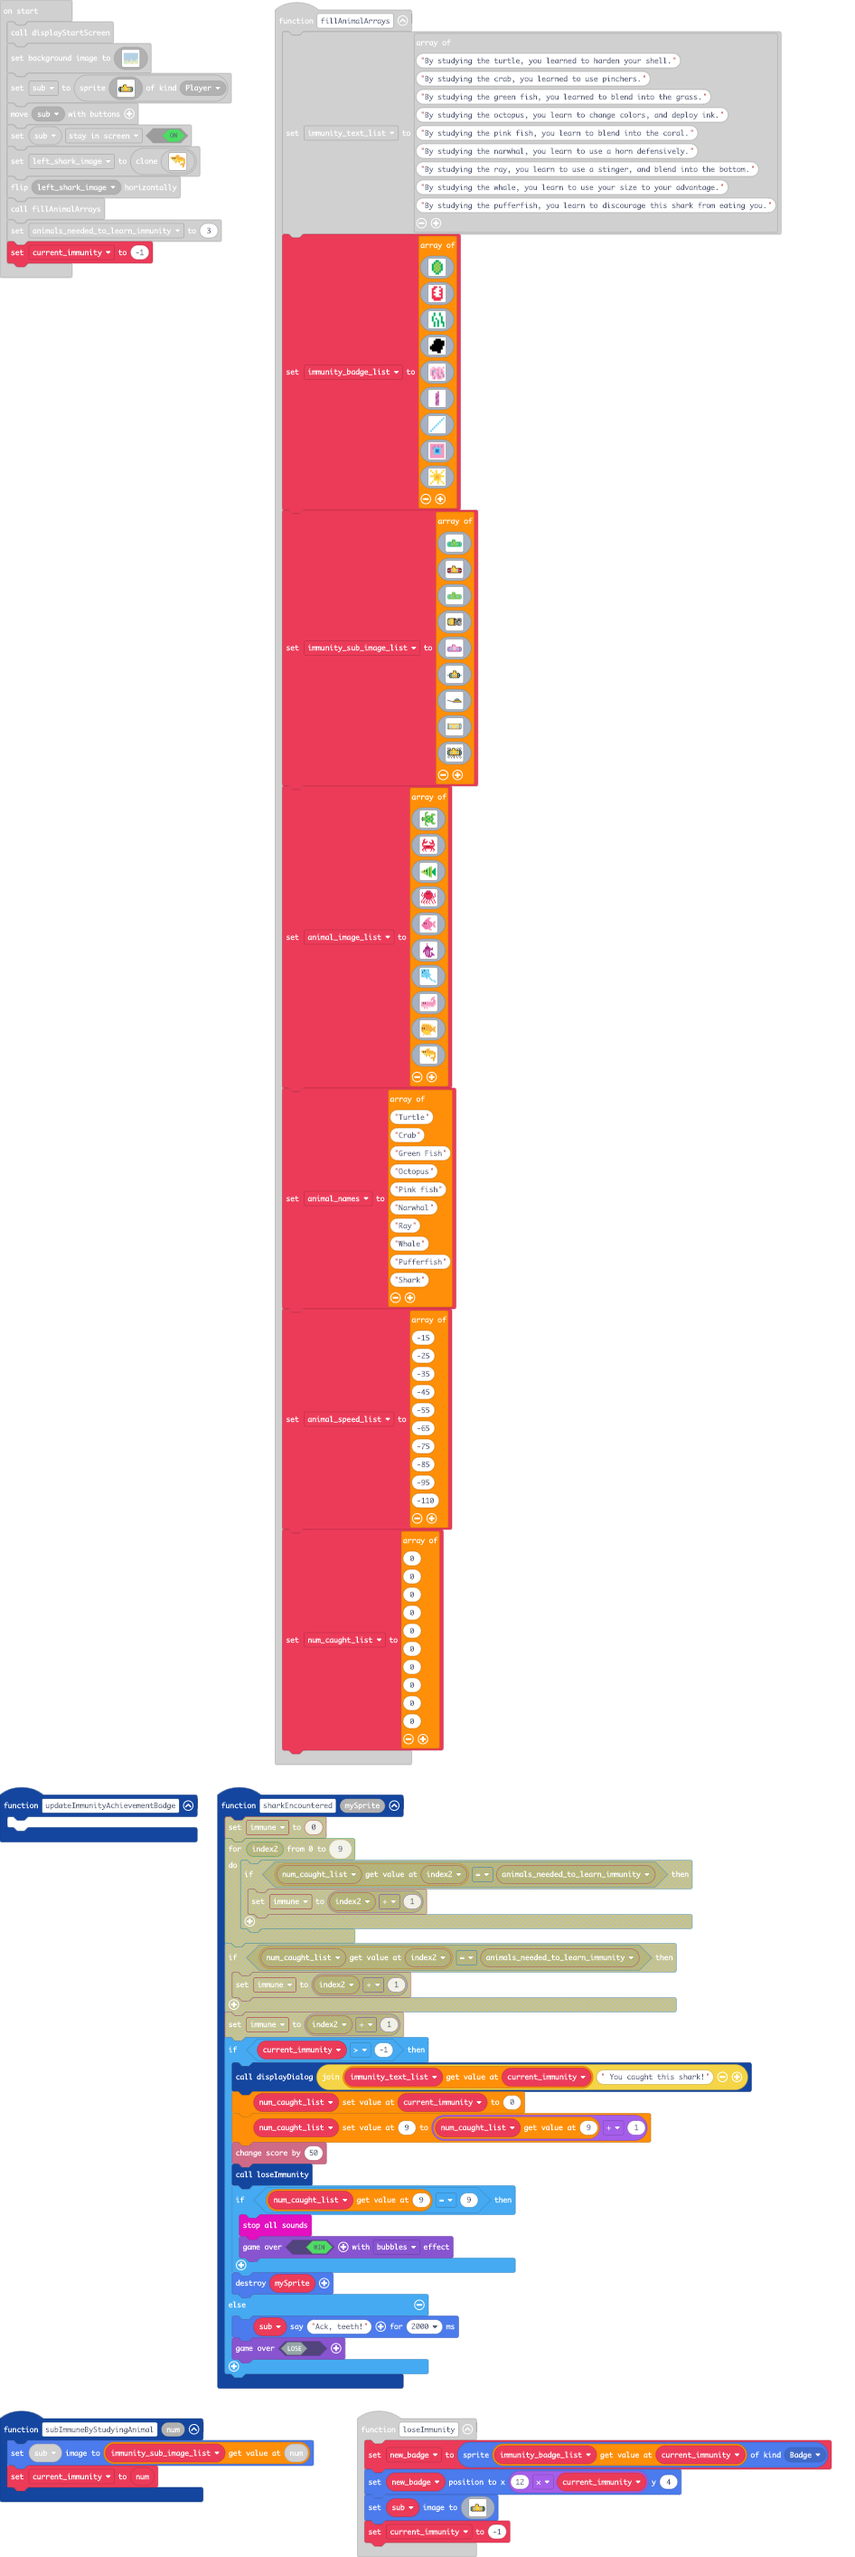
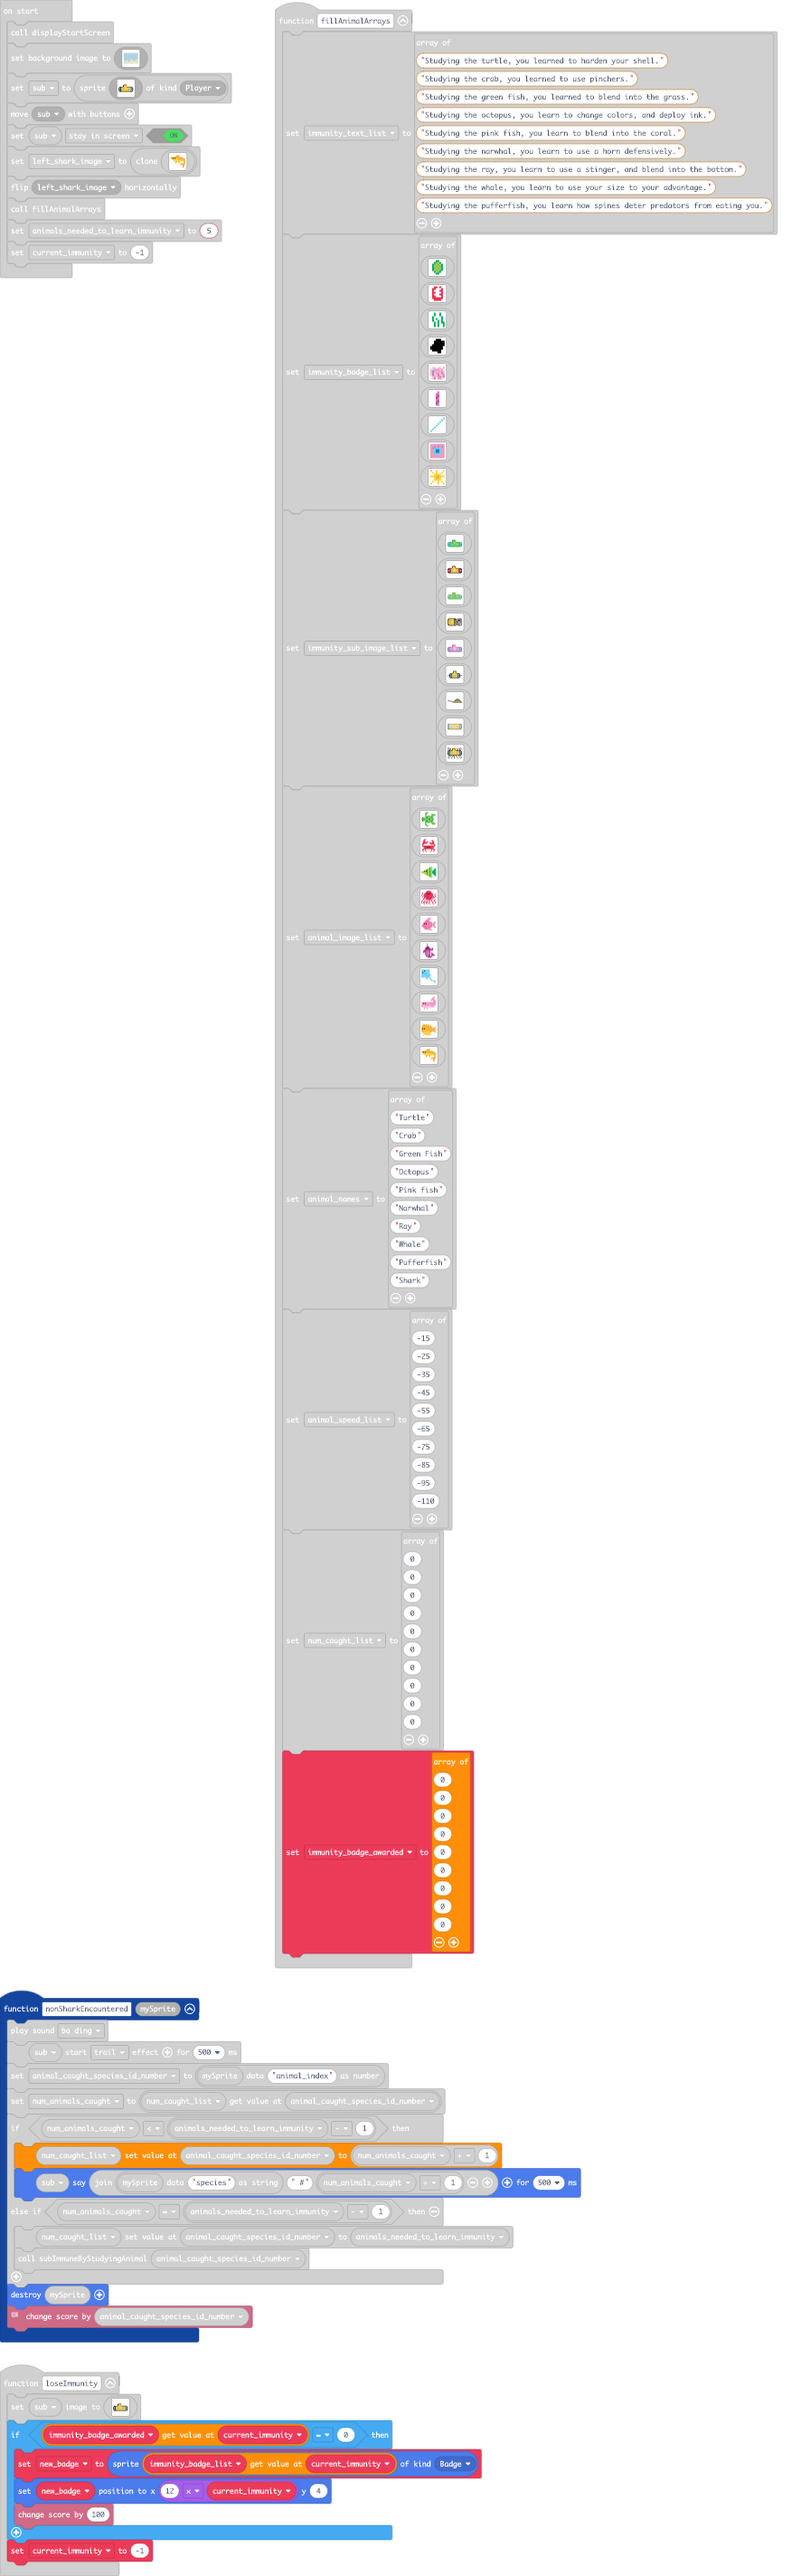
Immunity badges awarded when immunity used to catch shark.

diff --git a/main.ts b/main.ts
@@ -88,8 +88,6 @@ sprites.onOverlap(SpriteKind.Player, SpriteKind.Projectile, function (sprite, ot
     }
 })
 function loseImmunity () {
-    new_badge = sprites.create(immunity_badge_list[current_immunity], SpriteKind.Badge)
-    new_badge.setPosition(12 * current_immunity, 4)
     sub.setImage(img`
         . . . . . . . . . . . f f f f f f . . . . . . . . . . . . . . . 
         . . . . . . . . . . f d e d e e e f . . . . . . . . . . . . . . 
@@ -108,6 +106,11 @@ function loseImmunity () {
         . f f b f d d d d d d d d d d d d d d d d d d d d d d f b f f . 
         . . f f f f f f f f f f f f f f f f f f f f f f f f f f f f . . 
         `)
+    if (immunity_badge_awarded[current_immunity] == 0) {
+        new_badge = sprites.create(immunity_badge_list[current_immunity], SpriteKind.Badge)
+        new_badge.setPosition(12 * current_immunity, 4)
+        info.changeScoreBy(100)
+    }
     current_immunity = -1
 }
 function nonSharkEncountered (mySprite: Sprite) {
@@ -117,26 +120,26 @@ function nonSharkEncountered (mySprite: Sprite) {
     num_animals_caught = num_caught_list[animal_caught_species_id_number]
     if (num_animals_caught < animals_needed_to_learn_immunity - 1) {
         num_caught_list[animal_caught_species_id_number] = num_animals_caught + 1
+        sub.say("" + sprites.readDataString(mySprite, "species") + " #" + (num_animals_caught + 1), 500)
     } else if (num_animals_caught == animals_needed_to_learn_immunity - 1) {
         num_caught_list[animal_caught_species_id_number] = animals_needed_to_learn_immunity
         subImmuneByStudyingAnimal(animal_caught_species_id_number)
     }
     mySprite.destroy()
-    sub.say("" + sprites.readDataString(mySprite, "species") + " #" + (num_animals_caught + 1), 500)
     // Faster animals are worth more points.
     info.changeScoreBy(animal_caught_species_id_number)
 }
 function fillAnimalArrays () {
     immunity_text_list = [
-    "By studying the turtle, you learned to harden your shell.",
-    "By studying the crab, you learned to use pinchers.",
-    "By studying the green fish, you learned to blend into the grass.",
-    "By studying the octopus, you learn to change colors, and deploy ink.",
-    "By studying the pink fish, you learn to blend into the coral.",
-    "By studying the narwhal, you learn to use a horn defensively.",
-    "By studying the ray, you learn to use a stinger, and blend into the bottom.",
-    "By studying the whale, you learn to use your size to your advantage.",
-    "By studying the pufferfish, you learn to discourage this shark from eating you."
+    "Studying the turtle, you learned to harden your shell.",
+    "Studying the crab, you learned to use pinchers.",
+    "Studying the green fish, you learned to blend into the grass.",
+    "Studying the octopus, you learn to change colors, and deploy ink.",
+    "Studying the pink fish, you learn to blend into the coral.",
+    "Studying the narwhal, you learn to use a horn defensively.",
+    "Studying the ray, you learn to use a stinger, and blend into the bottom.",
+    "Studying the whale, you learn to use your size to your advantage.",
+    "Studying the pufferfish, you learn how spines deter predators from eating you."
     ]
     immunity_badge_list = [
     img`
@@ -612,6 +615,17 @@ function fillAnimalArrays () {
     0,
     0
     ]
+    immunity_badge_awarded = [
+    0,
+    0,
+    0,
+    0,
+    0,
+    0,
+    0,
+    0,
+    0
+    ]
 }
 let animal_sprite: Sprite = null
 let animal_speed = 0
@@ -624,6 +638,7 @@ let num_animals_caught = 0
 let animal_caught_species_id_number = 0
 let immunity_badge_list: Image[] = []
 let new_badge: Sprite = null
+let immunity_badge_awarded: number[] = []
 let num_caught_list: number[] = []
 let immunity_text_list: string[] = []
 let immunity_sub_image_list: Image[] = []
@@ -793,7 +808,7 @@ let left_shark_image = img`
     `.clone()
 left_shark_image.flipX()
 fillAnimalArrays()
-animals_needed_to_learn_immunity = 3
+animals_needed_to_learn_immunity = 5
 current_immunity = -1
 game.onUpdateInterval(5000, function () {
     shark = sprites.createProjectileFromSide(left_shark_image, 90, 0)
